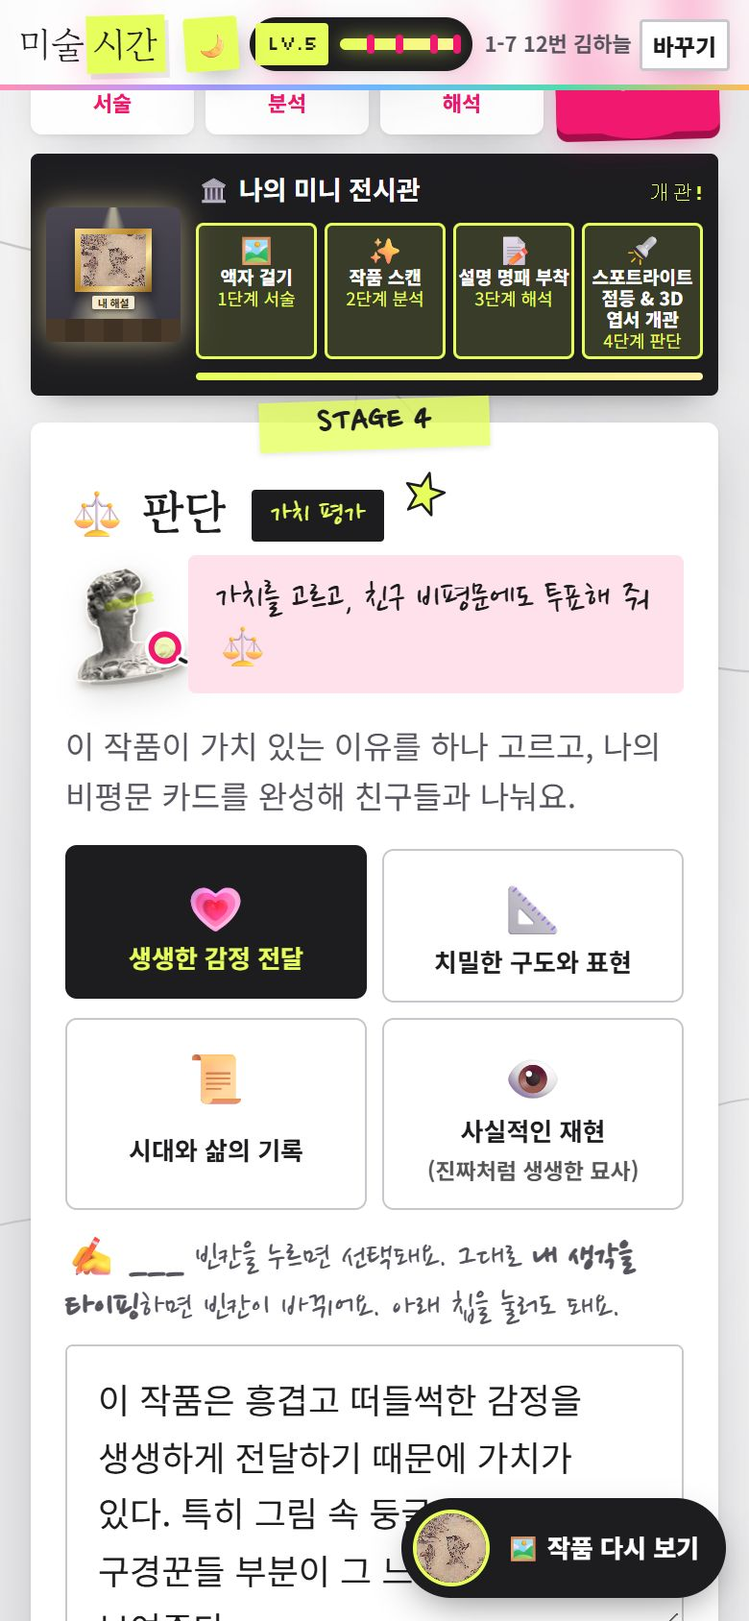
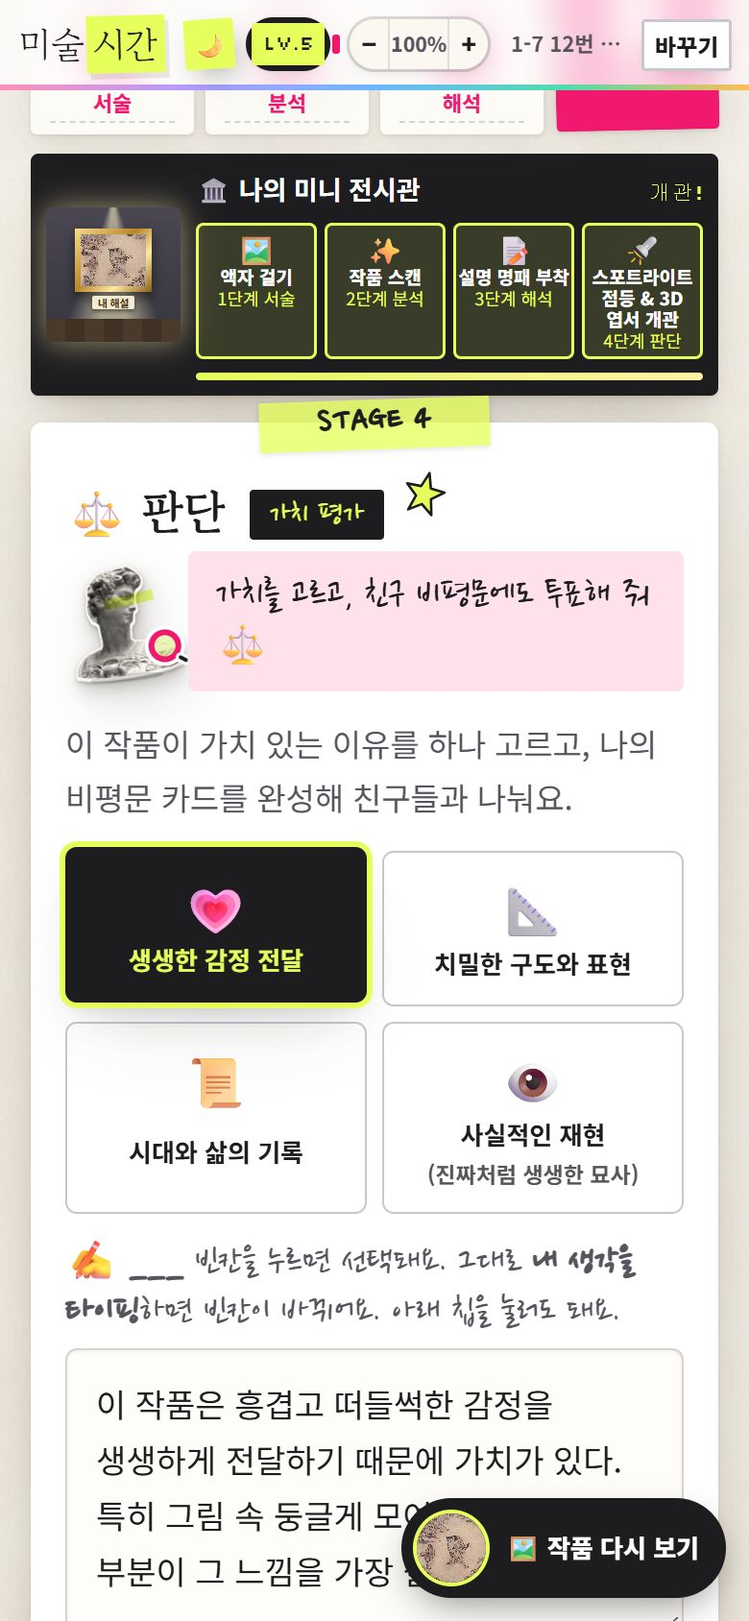
미술시간 최신 기능 반영: 명화 4선 선택(2×2 갤러리), 나만의 작품 제목·봉인 엽서·작품 정체 일괄 공개, 작품별 필터 탭·엽서 전시, 노트북 한 화면 2단·배율, 부스 체험 모드, 차시 지도·FAQ 갱신, 화면 캡처 새로 찍음

diff --git a/index.html b/index.html
@@ -246,6 +246,22 @@ footer .credit { font-size: 12.5px; color: var(--ink-3); }
 .pc-flip.on .ff { transform: rotateY(-180deg); }
 .pc-flip.on .fb { transform: rotateY(0deg); }
 .pc-flip:focus-visible { box-shadow: 0 0 0 3px var(--lime); border-radius: 6px; }
+.btn.reveal { width: min(360px, 100%); justify-content: center; margin-top: 8px; background: linear-gradient(135deg, #ffe27a, #f5b300); color: #3a2600; box-shadow: 0 4px 0 #b07c00, 0 10px 20px rgba(245, 179, 0, .3); font-weight: 900; }
+.btn.reveal[aria-pressed="true"] { background: var(--paper); color: var(--ink); box-shadow: var(--shadow); }
+.pc-flip .ff { transition: transform .9s cubic-bezier(.3, 1.3, .5, 1), filter .4s; }
+.pc-flip.lit .ff { animation: litPop .9s cubic-bezier(.3, 1.5, .5, 1); }
+@keyframes litPop { 0% { filter: brightness(1); } 30% { filter: brightness(1.35) saturate(1.2); } 100% { filter: brightness(1); } }
+.seal-steps { display: grid; grid-template-columns: repeat(3, 1fr); gap: 10px; margin: 18px 0 0; padding: 0; list-style: none; counter-reset: ss; }
+.seal-steps li { position: relative; padding: 12px 12px 12px 40px; background: var(--paper); box-shadow: var(--shadow); font-size: 14px; line-height: 1.5; }
+.seal-steps li::before { counter-increment: ss; content: counter(ss); position: absolute; left: 10px; top: 11px; width: 22px; height: 22px; border-radius: 50%; display: grid; place-items: center; background: var(--ink); color: var(--lime); font-family: var(--px); font-size: 10px; }
+.seal-steps b { display: block; font-size: 15px; }
+.pick4 { display: grid; grid-template-columns: repeat(2, 1fr); gap: 8px; margin: 16px 0 0; padding: 0; list-style: none; }
+.pick4 li { display: grid; grid-template-columns: 54px 1fr; gap: 10px; align-items: center; padding: 8px; background: var(--paper); box-shadow: var(--shadow); font-size: 13.5px; line-height: 1.4; }
+.pick4 img { width: 54px; height: 54px; object-fit: cover; }
+.pick4 b { display: block; font-size: 14px; }
+.lap { display: grid; grid-template-columns: 1fr 1.5fr; gap: 40px; align-items: center; padding: 56px 0; border-top: 1px dashed rgba(0, 0, 0, .14); }
+@media (max-width: 860px) { .seal-steps { grid-template-columns: 1fr; } .lap { grid-template-columns: 1fr; gap: 22px; } }
+@media (max-width: 520px) { .pick4 { grid-template-columns: 1fr; } }
 .ex-btns { display: grid; grid-template-columns: 1fr 1.4fr; gap: 8px; width: min(360px, 100%); }
 .ex-btns .btn { justify-content: center; padding: 12px 10px; font-size: 14.5px; }
 .ex-btns .btn.sub { background: transparent; color: #fff; border-color: rgba(255, 255, 255, .45); }
@@ -378,7 +394,7 @@ footer .credit { font-size: 12.5px; color: var(--ink-3); }
 </header>
   <div class="stats" aria-label="숫자로 보는 미술시간">
     <div class="wrap">
-      <div class="stat torn"><b>5<small>점</small></b><span>명작 감상 차시</span></div>
+      <div class="stat torn"><b>4<small>점</small></b><span>골라서 비평하는 명화</span></div>
       <div class="stat torn"><b>3<small>단계</small></b><span>표현 실기 작업실</span></div>
       <div class="stat torn"><b>4<small>단계</small></b><span>펠드먼 비평 흐름</span></div>
       <div class="stat torn"><b>0<small>회</small></b><span>로그인·앱 설치</span></div>
@@ -406,7 +422,7 @@ footer .credit { font-size: 12.5px; color: var(--ink-3); }
     <div class="head rv"><div class="sec-no">기획 의도 · 02</div><h2>배움과 <mark>학생</mark>을 지키는 장치</h2></div>
     <div class="safe">
       <div class="rv" data-k="PRIVACY"><h4>🔒 개인정보는 최소로</h4><p>회원가입·로그인 없이 반·번호·이름만 씁니다. 칠판과 스포트라이트에는 이름이 나오지 않습니다.</p></div>
-      <div class="rv" data-k="NO SPOILER"><h4>🙅 정답 떠먹이기 금지</h4><p>답을 암시하는 질문·키워드를 없애고, 예시는 다른 그림으로 보여 줍니다.</p></div>
+      <div class="rv" data-k="NO SPOILER"><h4>🙅 정답 떠먹이기 금지</h4><p>답을 암시하는 질문·키워드를 없애고, 예시는 다른 그림으로 보여 줍니다. 작품의 진짜 제목과 작가는 선생님이 공개할 때까지 엽서에서도 봉인됩니다.</p></div>
       <div class="rv" data-k="FILTER"><h4>✋ 장난 입력 차단</h4><p>'ㅋㅋㅋ', 'ㅇㄴㄷㄱ'처럼 자음·모음만 있거나 뜻 없는 글자는 제출되지 않고 "완성된 한글 문장으로 적어주세요"가 뜹니다.</p></div>
       <div class="rv" data-k="PACE"><h4>🧭 함께, 하지만 각자 속도로</h4><p>선생님이 넘기면 모두 함께 넘어가고, 놓친 단계는 탭으로 돌아가 마저 냅니다. 선생님이 열지 않은 단계는 잠겨 있습니다.</p></div>
       <div class="rv" data-k="NO AI"><h4>🤖 학생 글은 외부로 보내지 않음</h4><p>외부 AI 채점을 쓰지 않고 피드백은 선생님이 직접 보냅니다. 도슨트 음성도 학생 기기 안의 음성으로 읽어 줍니다.</p></div>
@@ -418,8 +434,8 @@ footer .credit { font-size: 12.5px; color: var(--ink-3); }
 <div class="chapter" id="lesson"><div class="wrap"><span class="ch-no">PART 02</span><h2 class="ch-title">수업 구성</h2><p class="ch-lead">하나의 사이트에서 <b>감상 비평</b>과 <b>실기 작업</b>을 모두 진행합니다. 두 단원은 이렇게 다르게 흘러갑니다.</p></div></div>
 
 <section class="compare-sec" style="padding:56px 0 0"><div class="wrap"><div class="compare">
-  <a class="unit-card ap rv" href="#feldman"><span class="chip">🔍 감상 단원</span><h3>명작 한 점을 <mark>비평</mark>으로 깊이</h3>
-    <ol><li><b>펠드먼 비평 4단계</b> — 서술 → 분석 → 해석 → 판단</li><li>단계마다 인증 도장 · 조립되는 <b>미니 전시관</b></li><li>마지막엔 <b>3D 아트 엽서</b> · 도슨트 음성 · 도록집</li></ol>
+  <a class="unit-card ap rv" href="#feldman"><span class="chip">🔍 감상 단원</span><h3>명화 4선 중 <mark>끌리는 한 점</mark>을 비평</h3>
+    <ol><li><b>2×2 갤러리</b>에서 학생마다 작품 한 점 고르기</li><li><b>펠드먼 비평 4단계</b> — 서술 → 분석 → 해석 → 판단</li><li><b>봉인된 3D 아트 엽서</b> → 선생님이 작품 정체 공개</li></ol>
     <span class="go-mini">감상 단원 자세히 ↓</span></a>
   <div class="vs" aria-hidden="true">+</div>
   <a class="unit-card ex rv" href="#studio"><span class="chip pk">🎨 표현 단원</span><h3>내 작품을 <mark>완성</mark>하고 나누기</h3>
@@ -430,23 +446,38 @@ footer .credit { font-size: 12.5px; color: var(--ink-3); }
 <section id="feldman" style="padding-top:40px">
   <div class="wrap">
     <div class="head rv"><div class="sec-no">감상 단원 · 펠드먼 비평 4단계</div><h2>실제 화면으로 보는 <mark>비평 4단계</mark></h2>
-      <p class="sec-lead">김홍도 〈씨름〉 차시 화면입니다. 학생 화면(휴대폰)과 교사 칠판(TV)을 함께 보여 드립니다. 화면 속 학생 이름과 답은 모두 가상 데이터입니다.</p></div>
-    <div class="steps-nav rv"><a href="#s1"><b>01</b>서술</a><a href="#s2"><b>02</b>분석</a><a href="#s3"><b>03</b>해석</a><a href="#s4"><b>04</b>판단</a><a href="#s5"><b>END</b>결과 공개</a></div>
+      <p class="sec-lead">학생마다 네 작품 중 하나를 골라 같은 4단계로 비평합니다. 아래는 김홍도 〈씨름〉을 고른 학생의 화면(휴대폰)과 교사 칠판(TV)입니다. 화면 속 학생 이름과 답은 모두 가상 데이터입니다.</p></div>
+    <div class="steps-nav rv"><a href="#s0"><b>00</b>작품 고르기</a><a href="#s1"><b>01</b>서술</a><a href="#s2"><b>02</b>분석</a><a href="#s3"><b>03</b>해석</a><a href="#s4"><b>04</b>판단</a><a href="#s5"><b>🔓</b>작품 정체 공개</a><a href="#s6"><b>END</b>결과 공개</a></div>
+
+    <div class="fs flip" id="s0">
+      <div class="txt rv"><div class="num">00</div><span class="chip">작품 고르기</span><h3>명화 4선 — 끌리는 한 점을 골라요</h3><p class="sub">제목은 비밀, 그림만 보고 고르기!</p>
+        <ul><li>수업에 들어오면 네 작품이 <b>2×2 갤러리 액자</b>로 걸려 있습니다. 액자에는 시대와 주제만 있고 <b>진짜 제목은 숨겨져</b> 있습니다.</li>
+          <li>마음이 끌리는 작품을 누르면 그 작품으로 서술 → 분석 → 해석 → 판단이 시작됩니다. 선생님이 시작하기 전 대기 화면에서도 미리 고를 수 있습니다.</li>
+          <li>위쪽 <b>[🖼 작품 바꾸기]</b>로 다른 작품을 고를 수 있고, 쓴 답과 경험치·엽서는 작품마다 따로 쌓입니다.</li>
+          <li>칠판은 <b>[전체] [작품 1] … [작품 4]</b> 탭으로 나뉘어, 작품별로 몇 명이 골랐고 어디까지 냈는지 한눈에 보입니다.</li></ul>
+        <ul class="pick4">
+          <li><img src="img/art-ssireum.jpg" alt="" loading="lazy"><span><b>작품 1 · 김홍도 〈씨름〉</b>동양 풍속화의 시선과 해학</span></li>
+          <li><img src="img/art-masaccio.jpg" alt="" loading="lazy"><span><b>작품 2 · 마사초 〈성 삼위일체〉</b>르네상스 원근법과 구도</span></li>
+          <li><img src="img/art-starry.jpg" alt="" loading="lazy"><span><b>작품 3 · 반 고흐 〈별이 빛나는 밤〉</b>후기 인상주의 붓질과 색채</span></li>
+          <li><img src="img/art-mondrian.jpg" alt="" loading="lazy"><span><b>작품 4 · 몬드리안 〈노랑, 파랑, 빨강의 구성〉</b>추상 · 비례와 균형</span></li></ul></div>
+      <div class="vis rv"><div class="phone rot-l"><img src="img/s-pick.jpg" alt="학생 화면: 2×2 갤러리 액자에서 비평할 명화 고르기" loading="lazy" width="780" height="1688"></div>
+        <div class="shot"><span class="tape"></span><img src="img/t-overview.jpg" alt="교사 칠판: 전체 탭에서 네 작품의 선택 인원과 진행 현황" loading="lazy" width="2160" height="1350"><p class="cap">칠판 [전체] 탭 — 네 작품 진행 현황</p></div></div>
+    </div>
 
     <div class="fs" id="s1">
       <div class="txt rv"><div class="num">01</div><span class="chip">팩트 관찰</span><h3>서술 — 보이는 것만, 사실대로</h3><p class="sub">느낌 말은 잠깐 참아요!</p>
         <ul><li>그림에서 중요한 곳 <b>두 곳에 핀</b>을 찍고, 핀마다 <b>보이는 사실 한 문장</b>을 씁니다.</li>
           <li>'예쁘다·무섭다' 같은 <b>느낌 말이 들어가면 바로 안내</b>가 떠서 관찰 문장으로 고쳐 쓰게 됩니다.</li>
           <li>작품마다 준비된 <b>관찰 단어 칩</b>을 누르면 문장에 쏙 들어갑니다.</li>
-          <li>칠판에는 반 전체가 찍은 <b>① ② 핀 지도</b>가 그려져, 우리 반 시선이 어디에 모였는지 한눈에 보입니다.</li>
+          <li>칠판의 작품 탭에는 그 작품을 고른 학생들이 찍은 <b>① ② 핀 지도</b>가 그려져, 시선이 어디에 모였는지 한눈에 보입니다.</li>
           <li>제출하면 <b>"📍 단서 포착 완료!"</b> 도장이 쾅 찍히고, 쓴 글이 경험치 바로 쏙 빨려 들어갑니다.</li></ul></div>
       <div class="vis rv"><div class="phone rot-l"><img src="img/s-describe2.jpg" alt="학생 화면: 핀 두 개와 관찰 문장 쓰기" loading="lazy" width="780" height="1688"></div>
-        <div class="shot"><span class="tape"></span><img src="img/t-describe.jpg" alt="교사 칠판: 반 전체 관찰 핀 지도와 학생 문장" loading="lazy" width="2160" height="1350"><p class="cap">칠판 — 우리 반 핀 지도</p></div></div>
+        <div class="shot"><span class="tape"></span><img src="img/t-describe.jpg" alt="교사 칠판: 반 전체 관찰 핀 지도와 학생 문장" loading="lazy" width="2160" height="1350"><p class="cap">칠판 [작품 1] 탭 — 핀 지도</p></div></div>
     </div>
 
     <div class="fs flip" id="s2">
       <div class="txt rv"><div class="num">02</div><span class="chip">조형 원리</span><h3>분석 — 선·색·구도에서 근거 찾기</h3><p class="sub">고른 말 말고, 그림 속 위치와 모습으로!</p>
-        <ul><li>작품별 조형 원리 질문 2개(구도·시선, 색채·대비 등)에 답합니다.</li>
+        <ul><li>작품마다 다른 조형 원리 질문 2개에 답합니다. (씨름: 구도·시선 / 동세·강조, 마사초: 원근법·깊이 / 균형·구도, 고흐: 리듬·선 / 색채·대비, 몬드리안: 비례·리듬 / 균형·색채)</li>
           <li><b>틀린 보기를 고르면 체크 대신</b> "다시 한번 그림의 선과 구도를 자세히 살펴볼까요?"가 뜨고, 알맞은 답을 찾아야 근거 칸이 열립니다.</li>
           <li>보기 순서는 <b>학생마다 다르게 섞여</b> 옆 친구 화면을 보고 따라 할 수 없습니다.</li>
           <li>근거는 "그림의 [어느 부분]에 있는 [대상]이 [어떻게]" 쓰는 법만 알려 주고, 답은 알려 주지 않습니다.</li></ul></div>
@@ -471,18 +502,38 @@ footer .credit { font-size: 12.5px; color: var(--ink-3); }
         <ul><li>💗 생생한 감정 전달 · 📐 치밀한 구도와 표현 · 📜 시대와 삶의 기록 · 👁 사실적인 재현 — <b>네 가지 비평 관점</b> 중 하나를 고릅니다.</li>
           <li>문장 틀의 첫 빈칸은 칩으로, <b>"특히 그림 속 ___ 부분"</b>의 둘째 빈칸은 그림을 보고 직접 씁니다. 빈칸이 남으면 공유할 수 없습니다.</li>
           <li>1~4단계 답이 <b>한 장의 비평문 카드</b>로 자동으로 묶입니다.</li>
-          <li>내 카드를 공유해야 친구 카드가 열리고, 설득력 있는 카드에 <b>한 사람 3표</b>로 투표합니다.</li></ul></div>
-      <div class="vis duo rv"><div class="phone rot-l"><img src="img/s-judge.jpg" alt="학생 화면: 네 가지 비평 관점과 두 문장 틀" loading="lazy" width="780" height="1688"></div>
+          <li><b>🏷 나만의 작품 제목</b>을 지어야 카드를 공유할 수 있습니다. 진짜 제목을 모르는 채, 내 비평을 담아 작품에 새 이름을 붙입니다.</li>
+          <li>내 카드를 공유해야 같은 작품을 고른 친구들의 카드가 열리고, 설득력 있는 카드에 <b>한 사람 3표</b>로 투표합니다.</li></ul></div>
+      <div class="vis duo rv"><div class="phone rot-l"><img src="img/s-judge-title.jpg" alt="학생 화면: 두 문장 틀과 나만의 작품 제목 짓기" loading="lazy" width="780" height="1688"></div>
         <div class="phone rot-r"><img src="img/s-wall.jpg" alt="학생 화면: 친구들의 비평문 카드와 투표" loading="lazy" width="780" height="1688"></div></div>
     </div>
 
     <div class="fs" id="s5">
+      <div class="txt rv"><div class="num" style="font-size:72px">🔓</div><span class="chip pk">작품 정체 공개</span><h3>봉인된 엽서 → 선생님이 한 번에 공개</h3><p class="sub">비평 발표가 먼저, 정답은 그다음!</p>
+        <ul><li>4단계를 내면 3D 아트 엽서가 열리지만, 앞면에는 <b>내가 지은 제목과 시대 힌트</b>만 있고 작가·원제·해설은 <b>🔒 학급 비평 공유 후 공개됩니다</b> 배지로 가려져 있습니다.</li>
+          <li>그동안 서로의 비평문과 엽서, 도슨트 음성을 먼저 나누고 발표합니다.</li>
+          <li>발표가 끝나면 선생님이 칠판의 <b>[🔓 실제 작품 정보 및 해설 공개하기]</b>를 누릅니다. 모든 학생 엽서와 칠판 엽서가 <b>실시간으로 금빛 반짝이며</b> 진짜 제목 · 작가 · 제작 연도 · 큐레이터 해설로 바뀝니다.</li>
+          <li>칠판의 <b>🗂 엽서 전시</b>에는 반 전체 엽서가 투표 순으로 모이고, 누르면 뒤집히고 크게 보기로 도슨트 음성도 함께 들을 수 있습니다.</li></ul></div>
+      <div class="vis rv"><div class="phone rot-l"><img src="img/s-pc-front.jpg" alt="학생 화면: 나만의 제목과 봉인 배지가 있는 3D 아트 엽서" loading="lazy" width="780" height="1688"></div>
+        <div class="shot"><span class="tape pk"></span><img src="img/t-wall.jpg" alt="교사 칠판: 봉인된 비평 엽서가 모인 엽서 전시" loading="lazy" width="2160" height="1350"><p class="cap">칠판 엽서 전시 — 공개 전에는 모두 봉인</p></div></div>
+    </div>
+
+    <div class="fs flip" id="s6">
       <div class="txt rv"><div class="num" style="font-size:72px">END</div><span class="chip pk">전시 개관</span><h3>결과 공개 — 진짜 제목과 숨은 이야기</h3><p class="sub">마지막에 밝혀지는 작품의 정체</p>
-        <ul><li>수업 내내 가려 두었던 <b>작품 제목과 작가</b>가 이때 공개됩니다. 선입견 없이 그림만 보고 비평하게 하려는 장치입니다.</li>
-          <li>🗝 <b>숨은 비하인드 스토리</b>와 우리 반 <b>베스트 비평문 TOP 3</b>가 함께 나옵니다.</li>
+        <ul><li>결과 공개 단계로 넘기면 작품 정보가 자동으로 함께 공개됩니다. 선입견 없이 그림만 보고 비평하게 하려는 장치의 마무리입니다.</li>
+          <li>🗝 <b>숨은 비하인드 스토리</b>와 그 작품을 고른 친구들의 <b>베스트 비평문 TOP 3</b>가 함께 나옵니다.</li>
           <li>학생 화면에서는 <b>내 아트 엽서 다시 보기</b> 버튼으로 엽서를 꺼내 볼 수 있습니다.</li></ul></div>
       <div class="vis rv"><div class="phone rot-l"><img src="img/s-end.jpg" alt="학생 화면: 결과 공개와 인증 도장" loading="lazy" width="780" height="1688"></div>
         <div class="shot"><span class="tape"></span><img src="img/t-end.jpg" alt="교사 칠판: 작품 정체 공개와 베스트 비평문" loading="lazy" width="2160" height="1350"></div></div>
+    </div>
+
+    <div class="lap">
+      <div class="txt rv"><span class="chip">노트북 · 태블릿</span><h3 style="margin:12px 0 8px;font-size:24px">노트북에서는 <mark>한 화면 2단</mark>으로</h3>
+        <ul><li>왼쪽에는 작품 액자, 오른쪽에는 단계 탭·미니 전시관·입력칸이 놓여 <b>페이지를 스크롤하지 않고</b> 그림을 보며 씁니다.</li>
+          <li>위쪽 <b>[🔍− 100% 🔍+]</b>로 화면 배율을 85~130%로 바꿀 수 있고, 그 기기에 기억됩니다.</li>
+          <li>입력칸에서 <b>Ctrl + Enter</b>를 누르면 바로 제출됩니다.</li>
+          <li>휴대폰에서는 작품이 위쪽에 얇게 붙어 있어, 아래로 내려 쓰는 동안에도 그림이 보입니다.</li></ul></div>
+      <div class="shot rv"><span class="tape"></span><img src="img/s-laptop.jpg" alt="학생 노트북 화면: 왼쪽 몬드리안 작품, 오른쪽 서술 단계 입력" loading="lazy" width="2049" height="1152"><p class="cap">학생 노트북 1366×768 — 작품 4 몬드리안 서술 단계</p></div>
     </div>
   </div>
 </section>
@@ -490,7 +541,7 @@ footer .credit { font-size: 12.5px; color: var(--ink-3); }
 <section id="exhibit" style="padding-top:40px">
   <div class="wrap">
     <div class="head rv"><div class="sec-no">감상 단원 · 3D 전시 개관</div><h2>네 단계를 마치면, <mark>나만의 전시</mark>가 열립니다</h2>
-      <p class="sec-lead">단계를 통과할 때마다 작은 전시관이 하나씩 조립되고, 마지막 판단을 제출하는 순간 스포트라이트가 켜지며 내 비평이 담긴 3D 아트 엽서가 나타납니다.</p></div>
+      <p class="sec-lead">단계를 통과할 때마다 작은 전시관이 하나씩 조립되고, 마지막 판단을 제출하는 순간 스포트라이트가 켜지며 내 비평이 담긴 3D 아트 엽서가 나타납니다. 작품의 정체는 선생님이 공개할 때까지 봉인됩니다.</p></div>
 
     <div class="build rv">
       <div class="build-row">
@@ -517,19 +568,20 @@ footer .credit { font-size: 12.5px; color: var(--ink-3); }
       <div class="ex-card rv">
         <span class="chip pk">탭해서 뒤집어 보세요 ↻</span>
         <div class="pc-flip" id="flip" tabindex="0" role="button" aria-label="아트 엽서 앞면과 뒷면 뒤집기">
-          <img class="ff" src="img/pc-front.png" alt="엽서 앞면: 작품 · 비평 관점 · 제목과 작가 · 금박 큐레이터 인증" loading="lazy" width="900" height="1350">
+          <img class="ff" id="ffImg" src="img/pc-front.png" alt="엽서 앞면(공개 전): 작품 · 비평 관점 · 학생이 지은 제목 · 봉인 배지 · 금박 큐레이터 인증" loading="lazy" width="900" height="1350">
           <img class="fb" src="img/pc-back.png" alt="엽서 뒷면: 관찰 · 분석 · 해석 · 판단이 이어진 큐레이터 비평 에세이와 줄리앙 우표" loading="lazy" width="900" height="1350">
         </div>
         <div class="ex-btns">
           <button type="button" class="btn sub" id="flipBtn">↻ 카드 뒤집기</button>
           <button type="button" class="btn main" id="ttsBtn"><span class="wave" aria-hidden="true"><i></i><i></i><i></i><i></i><i></i></span><b>🎧 도슨트 음성 듣기</b></button>
         </div>
-        <p class="cap">실제 앱에서 만든 엽서입니다 · 화면 속 학생 글은 가상 예시</p>
+        <button type="button" class="btn reveal" id="revealBtn" aria-pressed="false">🔓 선생님 버튼 체험 — 작품 정체 공개하기</button>
+        <p class="cap">실제 앱에서 만든 엽서입니다 · 공개 전 앞면 → 공개 후 앞면 · 화면 속 학생 글은 가상 예시</p>
       </div>
     </div>
 
     <div class="ex-feats">
-      <div class="tool rv"><div class="ic">🎴</div><h4>3D 양면 아트 엽서</h4><p><b>앞면</b>은 작품과 내가 고른 비평 관점, 진짜 제목과 작가, 금박 '미술시간 큐레이터 인증'. <b>뒷면</b>은 1~4단계 문장이 한 편으로 이어진 큐레이터 비평 에세이와 줄리앙 우표, 'Curated by 내 이름' 서명.</p></div>
+      <div class="tool rv"><div class="ic">🎴</div><h4>3D 양면 아트 엽서</h4><p><b>앞면</b>은 작품과 내가 고른 비평 관점, 금박 '미술시간 큐레이터 인증'. 공개 전에는 <b>내가 지은 제목 + 🔒 봉인 배지</b>, 공개 후에는 <b>진짜 제목 · 작가 · 제작 연도 · 큐레이터 해설</b>. <b>뒷면</b>은 1~4단계 문장이 한 편으로 이어진 큐레이터 비평 에세이와 줄리앙 우표, 'Curated by 내 이름' 서명.</p></div>
       <div class="tool rv"><div class="ic">🎧</div><h4>도슨트 음성</h4><p>학생 기기(브라우저)에 들어 있는 한국어 음성이 미술관 도슨트처럼 차분한 속도(0.95)로 내 비평 에세이를 읽어 줍니다. 읽는 동안 음파가 움직입니다.</p></div>
       <div class="tool rv"><div class="ic">📸</div><h4>이미지로 소장</h4><p>엽서 앞·뒷면을 깔끔한 세로 이미지 두 장으로 만들어 줍니다. 휴대폰은 길게 눌러 사진에 저장합니다.</p></div>
       <div class="tool rv"><div class="ic">🗂</div><h4>내 비평 도록집</h4><p>로비 맨 위 버튼으로 지금까지 완성한 엽서를 모아 보고, 다시 뒤집고, 다시 들을 수 있습니다.</p></div>
@@ -566,29 +618,28 @@ footer .credit { font-size: 12.5px; color: var(--ink-3); }
       <p class="sec-lead">선생님 기기 한 대를 TV에 연결하고, 학생은 각자 휴대폰이나 태블릿으로 들어옵니다. 수업을 열면 칠판 대기 화면에 <b>45분 진행 계획</b>이 함께 뜹니다.</p></div>
     <ol class="flow">
       <li class="rv"><span class="who t">교사</span><h4>단계 열기</h4><p>칠판에서 ▶ 다음을 누르면 모든 학생 화면이 같은 단계로 넘어갑니다.</p></li>
-      <li class="rv"><span class="who s">학생</span><h4>찍고 · 고르고 · 쓰기</h4><p>그림에 핀을 찍고, 조형 원리를 고르고, 근거 문장을 씁니다.</p></li>
-      <li class="rv"><span class="who a">자동</span><h4>칠판에 모이기</h4><p>핀 지도, 응답 막대, 렌즈 막대, 가치 판단 순위가 제출 즉시 그려집니다.</p></li>
+      <li class="rv"><span class="who s">학생</span><h4>찍고 · 고르고 · 쓰기</h4><p>내가 고른 명화에 핀을 찍고, 조형 원리를 고르고, 근거 문장을 씁니다.</p></li>
+      <li class="rv"><span class="who a">자동</span><h4>칠판에 모이기</h4><p>작품별 탭에 핀 지도, 응답 막대, 렌즈 막대, 가치 판단 순위가 제출 즉시 그려집니다.</p></li>
       <li class="rv"><span class="who t">교사</span><h4>답 공개 · 스포트라이트</h4><p><kbd style="font-family:var(--px);font-size:11px;background:#1d1c1f;color:#e6ff5c;padding:1px 5px">R</kbd> 로 답을 펼치고, 좋은 문장을 눌러 반 전체 휴대폰에 띄웁니다.</p></li>
       <li class="rv"><span class="who s">함께</span><h4>생각 나누기</h4><p>띄운 문장을 함께 읽고 다음 단계로. 늦은 학생은 앞 단계 탭으로 돌아가 마저 제출합니다.</p></li>
     </ol>
-    <p class="flow-note rv">✶ 단계마다 인증 도장 · 조립되는 미니 전시관 · 마지막엔 나만의 3D 아트 엽서 — 비평 과정이 한 편의 전시처럼 이어집니다 ✶</p>
+    <p class="flow-note rv">✶ 단계마다 인증 도장 · 조립되는 미니 전시관 · 마지막엔 봉인된 3D 아트 엽서 → 발표 → 🔓 작품 정체 공개 — 비평 과정이 한 편의 전시처럼 이어집니다 ✶</p>
   </div>
 </section>
 
 <section id="map" style="padding-top:40px">
   <div class="wrap">
-    <div class="head rv"><div class="sec-no">교사 가이드 · 02 차시 지도</div><h2>한 차시에 <mark>명작 한 점</mark>을 깊이</h2>
-      <p class="sec-lead">선사 시대부터 인상주의까지, 서로 다른 시대의 명작을 같은 4단계로 읽습니다. 표현 단원은 여러 주에 걸친 실기 수업을 이어서 진행합니다.</p></div>
+    <div class="head rv"><div class="sec-no">교사 가이드 · 02 차시 지도</div><h2>한 차시, <mark>명화 4선</mark> 중 끌리는 한 점을</h2>
+      <p class="sec-lead">감상 단원은 하나의 통합 수업입니다. 서로 다른 조형적 매력을 가진 네 작품 중 학생이 직접 고르고, 모두 같은 펠드먼 4단계로 읽습니다. 표현 단원은 여러 주에 걸친 실기 수업을 이어서 진행합니다.</p></div>
     <div class="map">
-      <div class="lesson rv"><span class="no">01</span><div class="th"><img src="img/art-lascaux.jpg" alt="" loading="lazy"></div><h4>선사 시대 동굴 벽화</h4><p>라스코의 들소들</p><span class="unit">감상 · 4단계</span></div>
-      <div class="lesson rv"><span class="no">02</span><div class="th"><img src="img/art-ssireum.jpg" alt="" loading="lazy"></div><h4>조선 풍속화의 비밀</h4><p>김홍도 〈씨름〉</p><span class="unit">감상 · 4단계</span></div>
-      <div class="lesson rv"><span class="no">03</span><div class="th"><img src="img/art-starry.jpg" alt="" loading="lazy"></div><h4>밤하늘의 소용돌이</h4><p>고흐 〈별이 빛나는 밤〉</p><span class="unit">감상 · 4단계</span></div>
-      <div class="lesson rv"><span class="no">04</span><div class="th"><img src="img/art-masaccio.jpg" alt="" loading="lazy"></div><h4>벽에 뚫린 가짜 공간</h4><p>마사초 〈성 삼위일체〉</p><span class="unit">감상 · 4단계</span></div>
-      <div class="lesson rv"><span class="no">05</span><div class="th"><img src="img/art-monet.jpg" alt="" loading="lazy"></div><h4>빛을 붙잡은 화가</h4><p>모네 〈몽토르게이 거리〉</p><span class="unit">감상 · 4단계</span></div>
+      <div class="lesson rv"><span class="no">01</span><div class="th"><img src="img/art-ssireum.jpg" alt="" loading="lazy"></div><h4>시선과 해학의 풍속화</h4><p>김홍도 〈씨름〉 · 원형 구도</p><span class="unit">감상 · 작품 1</span></div>
+      <div class="lesson rv"><span class="no">02</span><div class="th"><img src="img/art-masaccio.jpg" alt="" loading="lazy"></div><h4>벽에 뚫린 가짜 공간</h4><p>마사초 〈성 삼위일체〉 · 원근법 (교과서 55쪽)</p><span class="unit">감상 · 작품 2</span></div>
+      <div class="lesson rv"><span class="no">03</span><div class="th"><img src="img/art-starry.jpg" alt="" loading="lazy"></div><h4>밤하늘의 소용돌이</h4><p>반 고흐 〈별이 빛나는 밤〉 · 붓질과 보색</p><span class="unit">감상 · 작품 3</span></div>
+      <div class="lesson rv"><span class="no">04</span><div class="th"><img src="img/art-mondrian.jpg" alt="" loading="lazy"></div><h4>선과 색만으로 만든 조화</h4><p>몬드리안 〈노랑, 파랑, 빨강의 구성〉 · 비례와 균형 (교과서 35쪽)</p><span class="unit">감상 · 작품 4</span></div>
       <div class="lesson ex rv"><span class="no">E1</span><div class="th"><img src="img/art-e1.jpg" alt="" loading="lazy"></div><h4>나의 소망을 담은 책가도</h4><p>스케치 → 제작 → 전시</p><span class="unit">표현 · 3탭</span></div>
       <div class="lesson soon rv"><span class="no">F1</span><div class="th">🎵</div><h4>음악을 색으로 그려요</h4><p>융합 단원 · 준비 중</p><span class="unit">융합</span></div>
     </div>
-    <div class="add torn rv"><span style="font-size:28px">✍</span><div>새 작품은 <code>artworks.js</code>에, 새 차시는 <code>curriculum.js</code>에 <b>한 줄</b>만 더하면 로비 지도에 카드가 생깁니다. 관찰 칩·분석 질문을 작품마다 바꿀 수 있습니다.</div></div>
+    <div class="add torn rv"><span style="font-size:28px">✍</span><div>새 작품은 <code>artworks.js</code>에 이미지·관찰 칩·분석 질문을 넣고, <code>curriculum.js</code>의 명화 목록(<code>arts</code>)에 작품 이름을 <b>한 단어</b>만 더하면 학생 갤러리와 칠판 탭에 바로 생깁니다.</div></div>
   </div>
 </section>
 
@@ -598,18 +649,21 @@ footer .credit { font-size: 12.5px; color: var(--ink-3); }
       <p class="sec-lead">교사 화면은 프로젝터·TV용 칠판으로 설계했습니다. 수업 중에는 키보드 단축키만으로 진행할 수 있습니다.</p></div>
     <div class="tools">
       <div class="tool rv"><div class="ic">📱</div><h4>QR 입장</h4><p>수업을 열면 칠판에 QR과 접속한 학생 번호판이 뜹니다. 학생은 찍고 바로 들어옵니다.</p></div>
-      <div class="tool rv"><div class="ic">🎯</div><h4>학습 목표 띠</h4><p>칠판 맨 위에 오늘의 학습 목표와 "지금 하는 일"이 늘 보입니다.</p></div>
-      <div class="tool rv"><div class="ic">⌨</div><h4>단축키 진행</h4><p><kbd>←</kbd> <kbd>→</kbd> 단계 이동 · <kbd>R</kbd> 답 공개 · <kbd>L</kbd> 입력 잠금 · <kbd>I</kbd> 작품 정보 공개</p></div>
+      <div class="tool rv"><div class="ic">🖼</div><h4>작품별 필터 탭</h4><p><b>[전체]</b>는 네 작품의 선택 인원과 단계별 제출 현황, <b>[작품 1~4]</b>는 그 작품만의 핀 지도·응답 막대·비평 순위를 보여 줍니다.</p></div>
+      <div class="tool rv"><div class="ic">🔓</div><h4>작품 정보 일괄 공개</h4><p>발표가 끝난 뒤 <b>[실제 작품 정보 및 해설 공개하기]</b> 한 번이면 모든 학생 엽서와 칠판이 실시간으로 공개됩니다. (<kbd>I</kbd> 키)</p></div>
+      <div class="tool rv"><div class="ic">🗂</div><h4>엽서 전시</h4><p>판단·결과 단계에 반 전체 3D 엽서가 투표 순으로 모입니다. 누르면 뒤집히고, 크게 보기로 도슨트 음성을 함께 듣습니다.</p></div>
       <div class="tool rv"><div class="ic">📢</div><h4>스포트라이트</h4><p>좋은 답을 누르면 이름 없이 모든 학생 화면에 카드로 뜹니다. 뽑힌 학생 화면에만 "내 답이에요! 🎉"</p></div>
-      <div class="tool rv"><div class="ic">📊</div><h4>실시간 집계</h4><p>제출 인원, 분석 응답 막대, 렌즈 막대, 가치 판단 비율과 비평문 순위가 즉시 갱신됩니다.</p></div>
-      <div class="tool rv"><div class="ic">💾</div><h4>기록 · 정리</h4><p>반 전체 답과 피드백을 CSV로 내려받고, 지난 수업은 이어서 열거나 삭제할 수 있습니다.</p></div>
+      <div class="tool rv"><div class="ic">⌨</div><h4>단축키 진행</h4><p><kbd>←</kbd> <kbd>→</kbd> 단계 이동 · <kbd>R</kbd> 답 공개 · <kbd>L</kbd> 입력 잠금 · <kbd>I</kbd> 작품 정보 공개</p></div>
+      <div class="tool rv"><div class="ic">🔍</div><h4>한 화면 맞춤 · 배율</h4><p>칠판은 리모컨을 위쪽 한 줄에 모아 1366·1920 화면 모두 스크롤 없이 들어갑니다. 메뉴 바의 배율 조절기로 85~130% 조정.</p></div>
+      <div class="tool rv"><div class="ic">🎪</div><h4>부스 체험 모드</h4><p>연수·시연 때 켜면 학생 첫 화면에 <b>빠른 입장</b>, 감상 화면에 <b>처음부터 다시 체험</b> 버튼이 생깁니다. 정규 수업 때는 끄면 사라집니다.</p></div>
+      <div class="tool rv"><div class="ic">💾</div><h4>기록 · 정리</h4><p>반 전체 답과 피드백을 CSV로 내려받고(작품 이름 포함), 지난 수업은 이어서 열거나 삭제할 수 있습니다.</p></div>
     </div>
     <div class="devices">
-      <div class="shot rv rot-l"><span class="tape"></span><img src="img/t-qr.jpg" alt="교사 칠판: 입장 QR과 학습 목표" loading="lazy" width="2160" height="1350"><p class="cap">수업 시작 화면 — QR · 학습 목표 · 45분 진행 계획</p></div>
+      <div class="shot rv rot-l"><span class="tape"></span><img src="img/t-pc-open.jpg" alt="교사 칠판: 공개 후 큰 엽서에 진짜 제목과 해설" loading="lazy" width="2160" height="1350"><p class="cap">🔓 공개하는 순간 — 엽서에 진짜 제목·작가·해설</p></div>
       <div class="dev-list">
-        <div class="dev rv"><div class="di">💻</div><div><b>교사 노트북</b><span>교사 PIN으로 로그인 · 반과 차시를 골라 수업 열기</span></div></div>
+        <div class="dev rv"><div class="di">💻</div><div><b>교사 노트북</b><span>교사 PIN으로 로그인 · 반과 수업을 골라 열기</span></div></div>
         <div class="dev rv"><div class="di">📺</div><div><b>교실 TV · 프로젝터</b><span>칠판 화면을 그대로 띄워 함께 보기</span></div></div>
-        <div class="dev rv"><div class="di">📱</div><div><b>학생 휴대폰 · 태블릿</b><span>주소나 QR로 접속 · 반·번호·이름만 입력</span></div></div>
+        <div class="dev rv"><div class="di">📱</div><div><b>학생 휴대폰 · 태블릿 · 노트북</b><span>주소나 QR로 접속 · 반·번호·이름만 입력 · 노트북은 한 화면 2단</span></div></div>
       </div>
     </div>
   </div>
@@ -620,8 +674,8 @@ footer .credit { font-size: 12.5px; color: var(--ink-3); }
     <div class="rv">
       <div class="sec-no">교사 가이드 · 04 수업 시작</div><h2>주소 하나, <mark>QR 한 번</mark></h2>
       <ol>
-        <li><div><b>선생님이 수업 열기</b><span>교사 화면에서 반과 차시를 고르면 칠판에 QR이 뜹니다.</span></div></li>
-        <li><div><b>학생 입장</b><span>QR을 찍거나 주소로 들어와 반·번호·이름을 입력하면 자동으로 오늘 수업에 들어옵니다.</span></div></li>
+        <li><div><b>선생님이 수업 열기</b><span>교사 로비에서 반과 [감상 단원 · 명화 4선 선택 비평] 카드를 고르면 칠판에 QR이 뜹니다.</span></div></li>
+        <li><div><b>학생 입장</b><span>QR을 찍거나 주소로 들어와 반·번호·이름을 입력하면 자동으로 오늘 수업에 들어오고, 비평할 명화를 한 점 고릅니다.</span></div></li>
         <li><div><b>▶ STAGE 1 시작</b><span>선생님이 단계를 열 때마다 모든 학생 화면이 함께 넘어갑니다.</span></div></li>
       </ol>
       <div class="btns" style="margin-top:22px">
@@ -644,7 +698,10 @@ footer .credit { font-size: 12.5px; color: var(--ink-3); }
       <details class="rv"><summary>교사 화면을 꺼도 되나요?</summary><p>네. 수업 기록은 서버에 남아 있어 로비의 '최근 수업'에서 이어서 열 수 있습니다. '수업 끝내기'를 누르면 학생 화면은 대기 로비로 돌아갑니다.</p></details>
       <details class="rv"><summary>아트 엽서와 도록집은 어디에 저장되나요?</summary><p>엽서를 만든 학생 기기의 브라우저에 저장됩니다. 다른 기기로 들어오거나 브라우저 기록을 지우면 도록집에 보이지 않으니, 남기고 싶은 엽서는 '이미지로 소장하기'로 저장해 두세요. 비평문 자체는 서버에 남아 선생님이 CSV로 내려받을 수 있습니다.</p></details>
       <details class="rv"><summary>도슨트 음성이 안 나와요.</summary><p>기기에 한국어 음성이 있어야 합니다. 휴대폰이 무음 모드인지, 소리가 켜져 있는지 확인해 주세요. 목소리는 기기(아이폰·갤럭시·크롬북)마다 다릅니다.</p></details>
-      <details class="rv"><summary>다른 작품으로 수업하고 싶어요.</summary><p>작품 이미지와 관찰 칩·분석 질문·비하인드 스토리를 작품 데이터 파일에 추가하면 됩니다. 차시 목록에 한 줄을 더하면 로비 지도에 새 카드가 생깁니다.</p></details>
+      <details class="rv"><summary>학생마다 다른 작품을 고르면 칠판은 어떻게 보나요?</summary><p>칠판 위쪽의 <b>[전체]</b> 탭은 네 작품의 선택 인원과 단계별 제출 현황을, <b>[작품 1~4]</b> 탭은 그 작품을 고른 학생들의 핀 지도·응답·비평 순위만 보여 줍니다. 아직 고르지 않은 학생 수도 함께 보입니다.</p></details>
+      <details class="rv"><summary>작품의 진짜 제목은 언제 공개되나요?</summary><p>선생님이 칠판에서 <b>[🔓 실제 작품 정보 및 해설 공개하기]</b>를 누르거나 결과 공개 단계로 넘길 때입니다. 그 전까지 엽서에는 학생이 지은 제목과 시대 힌트만 보입니다. 다시 누르면 잠금으로 돌아갑니다.</p></details>
+      <details class="rv"><summary>연수나 시연 때 빠르게 체험하려면요?</summary><p>교사 로비 맨 위 <b>[🎪 부스 체험 모드]</b>를 켜 두세요. 학생 첫 화면에 '빠른 입장' 버튼이 생겨 학번 없이 '체험선생님'으로 바로 들어오고, 혼자서 1~4단계를 진행하며 엽서 아래 '작품 정체 바로 확인하기'로 직접 공개해 볼 수 있습니다. 감상 화면의 '처음부터 다시 체험'을 누르면 다음 분이 새로 시작합니다. 정규 수업 전에는 꼭 끄세요.</p></details>
+      <details class="rv"><summary>다른 작품으로 수업하고 싶어요.</summary><p>작품 이미지와 관찰 칩·분석 질문·비하인드 스토리를 작품 데이터 파일에 추가하고, 명화 목록에 그 작품 이름을 넣으면 학생 갤러리와 칠판 탭에 새 액자가 생깁니다.</p></details>
     </div>
   </div>
 </section>
@@ -666,12 +723,26 @@ footer .credit { font-size: 12.5px; color: var(--ink-3); }
   const doFlip = () => flip.classList.toggle("on");
   flip.onclick = doFlip; flip.onkeydown = (e) => { if (e.key === "Enter" || e.key === " ") { e.preventDefault(); doFlip(); } };
   document.getElementById("flipBtn").onclick = doFlip;
-  const tts = document.getElementById("ttsBtn"), ESSAY = "씨름, 김홍도. 큐레이터의 비평 에세이입니다. 그림 앞에 서서 가장 먼저 눈에 들어온 장면은 이렇다. 가운데에서 두 사람이 서로 붙잡고 있다. 구경꾼들이 둥글게 앉아 있다. 조형의 눈으로 다시 보면, 구도와 시선을 살펴보면 가운데 씨름꾼에게 모인다. 화가는 구경꾼들을 둥근 원 모양으로 배치하여 시선이 가운데 씨름꾼으로 모이게 했고, 이를 통해 흥겹고 떠들썩한 분위기를 전달하려 했다. 그래서 나는 이렇게 평가한다. 이 작품은 흥겹고 떠들썩한 감정을 생생하게 전달하기 때문에 가치가 있다.";
+  // 🔓 선생님 버튼 체험: 봉인된 앞면 ↔ 공개된 앞면
+  const rb = document.getElementById("revealBtn"), ff = document.getElementById("ffImg");
+  let opened = false;
+  new Image().src = "img/pc-front-open.png";
+  rb.onclick = () => {
+    opened = !opened; flip.classList.remove("on");
+    ff.src = opened ? "img/pc-front-open.png" : "img/pc-front.png";
+    ff.alt = opened ? "엽서 앞면(공개 후): 진짜 제목 〈씨름〉 · 김홍도 · 제작 정보 · 금박 큐레이터 인증" : "엽서 앞면(공개 전): 학생이 지은 제목 · 봉인 배지";
+    rb.setAttribute("aria-pressed", String(opened));
+    rb.textContent = opened ? "🔒 다시 봉인하기" : "🔓 선생님 버튼 체험 — 작품 정체 공개하기";
+    flip.classList.remove("lit"); void flip.offsetWidth; if (opened) flip.classList.add("lit");
+  };
+  const BODY = "그림 앞에 서서 가장 먼저 눈에 들어온 장면은 이렇다. 가운데에서 두 사람이 서로 붙잡고 있다. 구경꾼들이 둥글게 앉아 있다. 조형의 눈으로 다시 보면, 구도와 시선을 살펴보면 둥근 원 모양으로 앉아 시선이 가운데 씨름꾼에게 모인다. 동세와 강조를 살펴보면 배경을 비우고 두 씨름꾼의 몸을 엇갈린 대각선으로 그려 힘이 부딪치는 순간을 보여 준다. 화가는 구경꾼들을 둥근 원 모양으로 배치하여 시선이 가운데 씨름꾼으로 모이게 했고, 이를 통해 흥겹고 떠들썩한 분위기를 전달하려 했다. 그래서 나는 이렇게 평가한다. 이 작품은 흥겹고 떠들썩한 감정을 생생하게 전달하기 때문에 가치가 있다. 특히 그림 속 둥글게 모여 웃는 구경꾼들 부분이 그 느낌을 가장 잘 보여준다.";
+  const tts = document.getElementById("ttsBtn");
   let speaking = false;
   const setOn = (on) => { speaking = on; tts.classList.toggle("on", on); tts.querySelector("b").textContent = on ? "⏹ 음성 멈추기" : "🎧 도슨트 음성 듣기"; };
   if (!("speechSynthesis" in window)) { tts.disabled = true; tts.querySelector("b").textContent = "이 브라우저는 음성을 지원하지 않아요"; }
   else tts.onclick = () => {
     if (speaking) { speechSynthesis.cancel(); return setOn(false); }
+    const ESSAY = (opened ? "씨름, 김홍도. " : "모두가 숨죽인 한판 승부, 나만의 작품 제목. ") + "큐레이터의 비평 에세이입니다. " + BODY;
     const parts = ESSAY.match(/[^.!?]+[.!?]*/g).map((x) => x.trim()).filter(Boolean), v = speechSynthesis.getVoices().find((x) => /^ko/i.test(x.lang));
     let i = 0; setOn(true); speechSynthesis.cancel();
     const next = () => { if (!speaking || i >= parts.length) return setOn(false); const u = new SpeechSynthesisUtterance(parts[i++]); u.lang = "ko-KR"; u.rate = .95; if (v) u.voice = v; u.onend = next; u.onerror = () => setOn(false); speechSynthesis.speak(u); };
